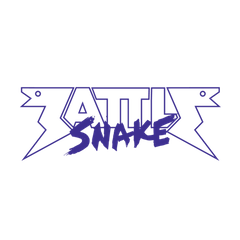
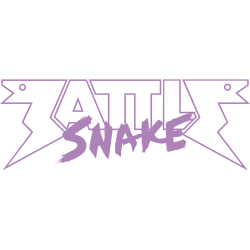
gif cosmetic updates (#22)
- new watermark
- remove url

Changed region(s): [[0.0, 0.2917, 1.0, 0.7]]

diff --git a/render/image.go b/render/image.go
@@ -19,7 +19,6 @@ const (
 	AssetFallbackTail        = "tails/regular.png"
 	AssetFallbackUnspecified = ""
 	BoardBorder              = 2
-	BoardBorderBottom        = 15
 	SquareSizePixels         = 20
 	SquareBorderPixels       = 1
 	SquareFoodRadius         = SquareSizePixels / 3
@@ -300,7 +299,7 @@ func drawGaps(dc *gg.Context, bx, by int, direction, hexColor string) {
 func createBoardContext(b *Board) *gg.Context {
 	dc := gg.NewContext(
 		SquareSizePixels*b.Width+BoardBorder*2,
-		SquareSizePixels*b.Height+BoardBorder*2+BoardBorderBottom,
+		SquareSizePixels*b.Height+BoardBorder*2,
 	)
 
 	cacheKey := fmt.Sprintf("%d:%d", b.Width, b.Height)
@@ -326,16 +325,6 @@ func createBoardContext(b *Board) *gg.Context {
 
 	// Draw watermark
 	drawWatermark(dc)
-
-	// Draw subtitle
-	dc.SetColor(color.Black)
-	dc.DrawStringAnchored(
-		"play.battlesnake.com",
-		float64(dc.Width()/2),
-		float64(dc.Height()-10),
-		0.5, 0.5,
-	)
-	dc.Fill()
 
 	// Cache for next time
 	cacheDC := gg.NewContext(dc.Width(), dc.Height())
@@ -389,6 +378,5 @@ func boardYToDrawY(dc *gg.Context, y int) float64 {
 	// Note: the Battlesnake board coordinates have (0,0) at the bottom left
 	// so we need to flip the y-axis to convert to the graphics, which follows the convention
 	// of (0,0) being the top left.
-	// ALSO, there is a gap at the bottom and some borders that need to get offset.
-	return float64((dc.Height() - BoardBorderBottom - BoardBorder*2 - SquareSizePixels) - (y * SquareSizePixels)) // flip!
+	return float64((dc.Height() - BoardBorder*2 - SquareSizePixels) - (y * SquareSizePixels)) // flip!
 }
